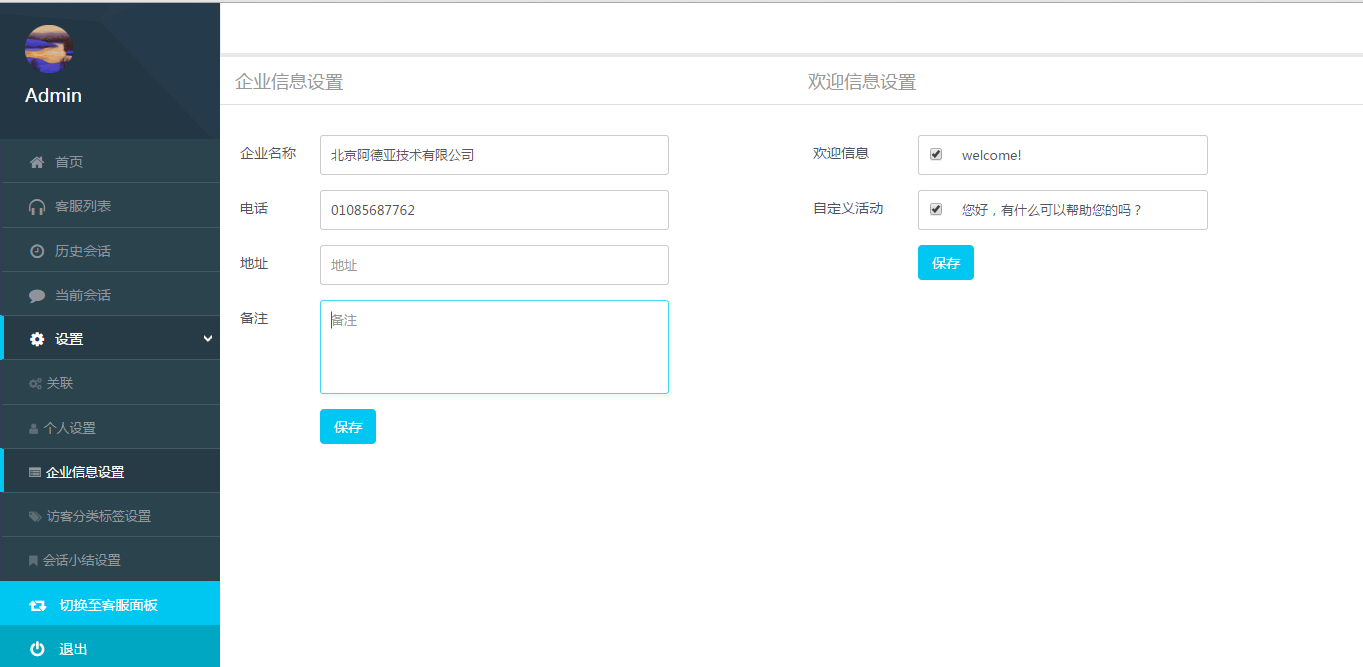
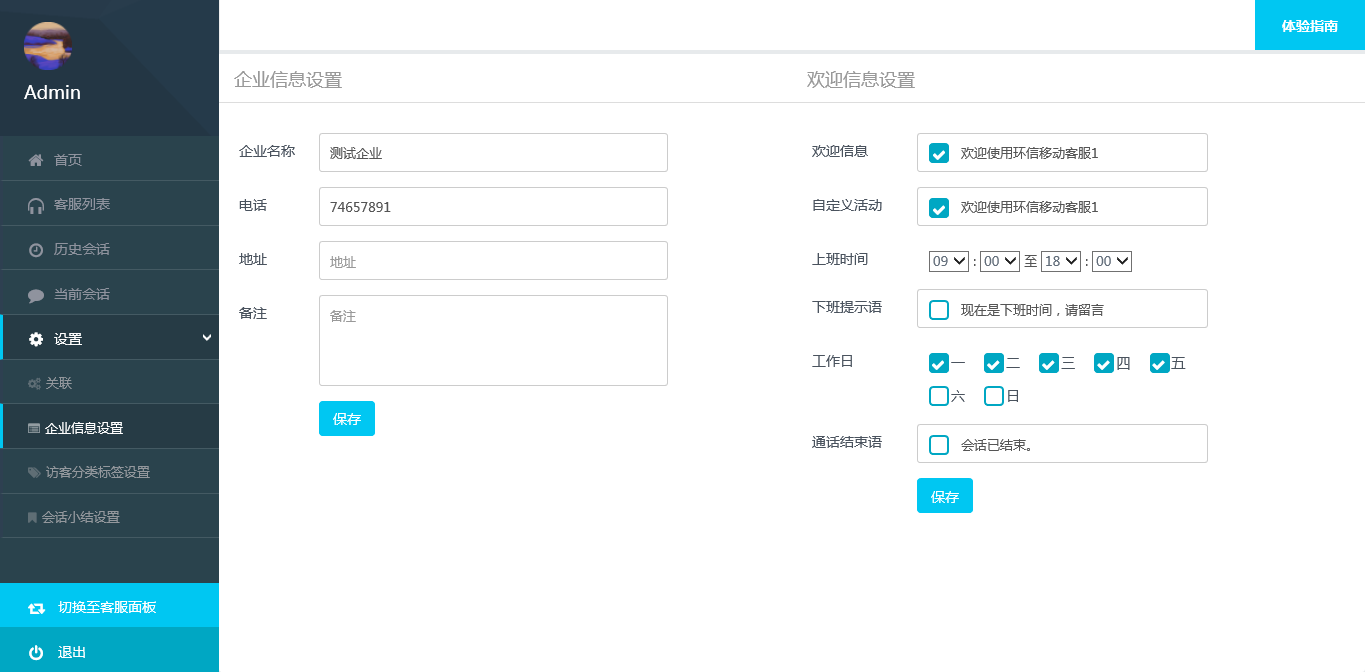
0613

diff --git a/content/docs/kefu/index.md b/content/docs/kefu/index.md
@@ -14,16 +14,14 @@ sidebar: kefusidebar
 
 ##### IM服务号 
 
-环信服务号是指在APP中使用环信即时通讯云作为客服接入渠道时，商家提供的供顾客咨询的服务号码。这个服务号码实际上是一个标准的环信ID。每个顾客也都有自己的环信ID（有时是系统自动为顾客产生的环信ID，比如在不需要登录的场合），顾客向商家的环信服务号咨询问题的过程，其实就是两个环信ID之间通过环信即时通讯云聊天的过程。
+IM服务号是指在APP中使用环信即时通讯云作为客服接入渠道时，商家提供的供顾客咨询的服务号码。这个服务号码实际上是一个标准的环信ID。每个顾客也都有自己的环信ID（有时是系统自动为顾客产生的环信ID，比如在不需要登录的场合），顾客向商家的IM服务号咨询问题的过程，其实就是两个环信ID之间通过环信即时通讯云聊天的过程。
 
-多个顾客可以同时和一个环信服务号聊天。在一个环信服务号后面，可以有多个客服代表同时提供服务，即所谓多客服后台。
+多个顾客可以同时和一个IM服务号聊天。在一个IM服务号后面，可以有多个客服代表同时提供服务，即所谓多客服后台。
 
+##### IM服务号 
 
-##### 关联
+IM服务号是指在APP中使用环信即时通讯云作为渠道接入客服系统时，商家提供的供顾客咨询的服务号码。IM服务号是一个标准的环信ID,每个客户通过自己的环信ID（如果没有会根据业务场景自动创建）和IM服务号进行会话，再由IM服务号将所有的会话信息关联到客服系统，实现多个客户的环信ID和多个客服进行会话交流，解决客户提出的问题。
 
-关联是指环信移动客服系统的接入渠道。环信移动客服是一个支持多渠道接入的客服平台。目前已经支持的接入渠道包括：环信IM，微信公共账号，新浪微博，网页端。
-
-以集成环信即时通讯云为例：将一个环信ID（即环信服务号）和移动客服系统关联后，所有和环信服务号进行的会话都会被转发到客服系统，并由客服系统将会话分配到客服代表处理。
 
 
 ## 1. 注册登录 {#1112}
@@ -32,7 +30,7 @@ sidebar: kefusidebar
 ![注册界面](/img/kefu/1.bmp)
 <center>注册界面</center>
 
-在注册界面，输入企业的名称、联系电话、注册的用户名（登录邮箱）、密码信息，点击注册完成操作。
+在注册界面，输入企业的名称、联系电话、注册的用户名（为邮箱格式）、密码信息，点击注册完成操作。
 
 
 ## 2. 首页 {#1113}
@@ -42,7 +40,7 @@ sidebar: kefusidebar
 ![数据信息详解](/img/kefu/2.png)
 
 ##### 2.1. 今日新会话数
-指从今日0时开始，新发起的会话数。
+指从今日0时开始，客服系统新收到的会话数。
 如一个客户发起会话后客服结束会话，后又再次发起会话，这里统计为两次会话。
 如果一个客户是昨天开始的会话一直没有结束延续到今天，那么次会话不统计在此数据内。
 
@@ -50,7 +48,7 @@ sidebar: kefusidebar
 指当前正在进行的会话的数量，会话时间不做限制，无论什么时候进入的会话，只要当前没有结束会话，均算做处理中会话
 
 ##### 2.3. 在线座席数
-指当前所有的已经登录的，并且状态为在线的客服人员的数量，管理人员可以根据客服人员的数量和当前的会话数等初步判断当前客服人员的忙闲程度。
+指当前所有的已经登录的，并且状态为在线的客服人员的数量，管理人员可以根据客服人员的数量和当前的会话数等初步判断当前客服团队的忙闲程度。
 
 ##### 2.4. 今日消息数
 指今日0点以后的，所有的收发的消息的数量，消息数不区分会话的开始时间。
@@ -69,10 +67,10 @@ sidebar: kefusidebar
 客服列表提供客服代表账号的维护功能，具体功能及用法如下。
 首先在左侧菜单中点击“客服列表”按钮，点击以后在右侧的界面中新增、修改及删除客服代表。
 
-![客服列表](/img/kefu/3.png)
+![客服列表](/img/kefu/3.png)点击“新增客服”按钮，在弹出的界面中输入客服信息，并保存，完成新增客服操作。
 <center>客服列表</center>
 
-点击“新增客服”按钮，在弹出的界面中输入客服信息，并保存，完成新增客服操作。
+
 
 
 ![新增客服](/img/kefu/4.png)
@@ -168,7 +166,8 @@ sidebar: kefusidebar
 ![企业信息设置](/img/kefu/15.png)<center>
 <center>企业信息设置</center>
 在企业信息设置页面中，设置系统的欢迎词和系统近期活动信息，欢迎词设置以后在客户访问系统时会自动回复客户，提高客户的好感。
-
+在企业信息设置中可以设置上下班时间，以及下班提醒的开关、文案等内容。
+注：下班提醒规则：系统判断当前企业信息设置中的下班提醒开关为开启、当前时间为下班时间并且没有客服空闲（状态为在线且当前会话数没有超过接待人数）
 ![欢迎信息显示](/img/kefu/17.png)
 <center>欢迎信息显示</center>
 
